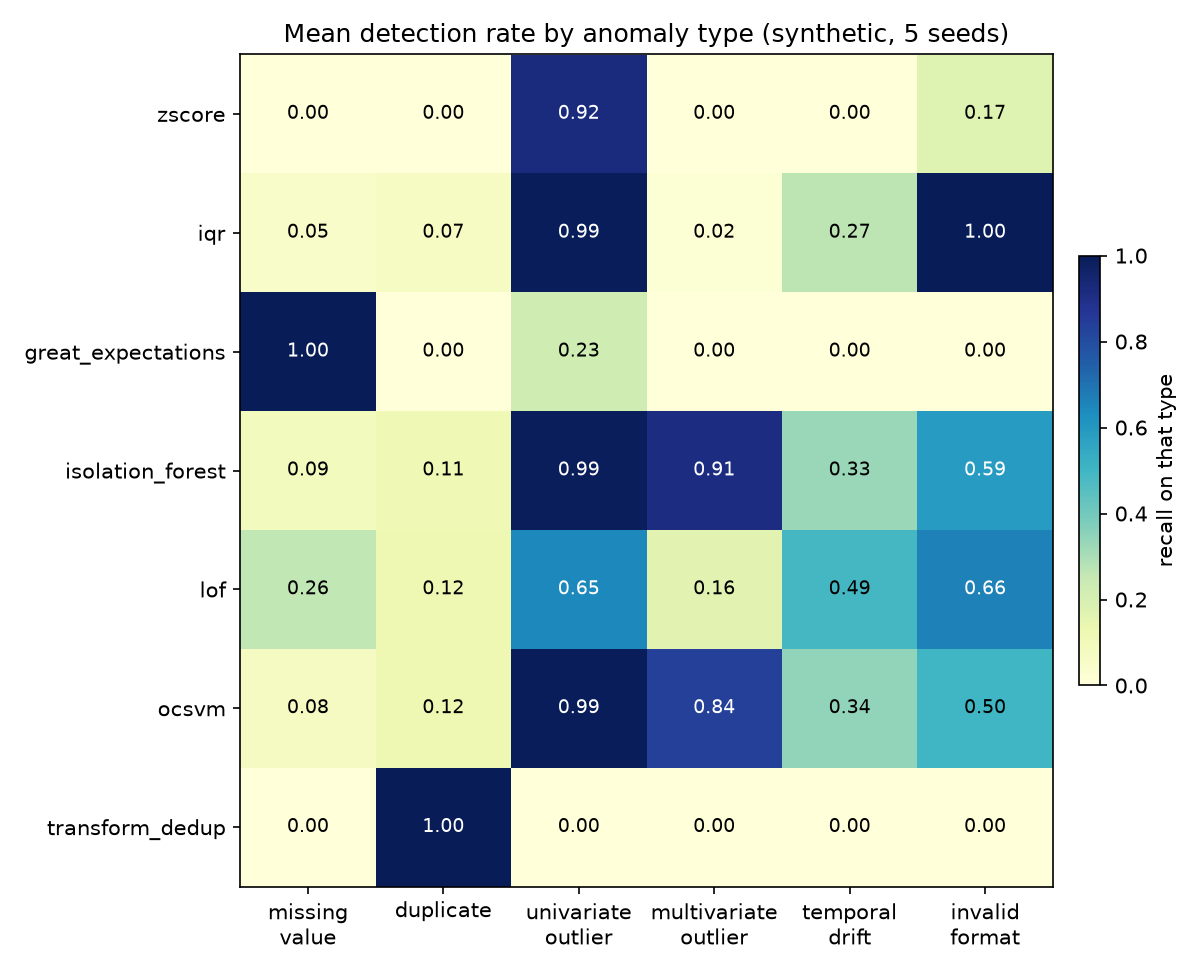
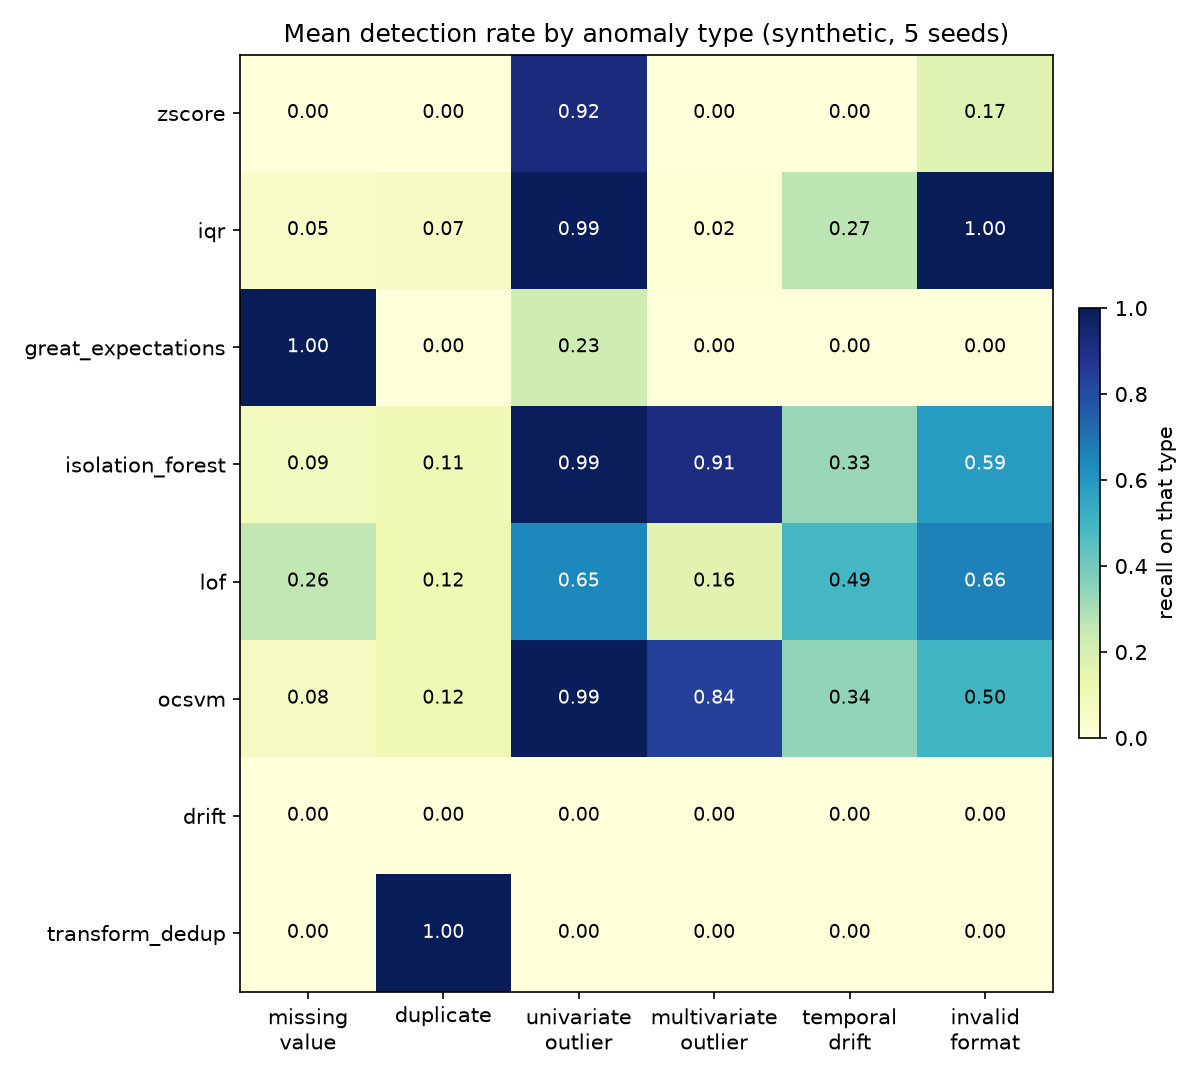
feat(quality): add a time-aware temporal-drift detector

diff --git a/src/etl_benchmark/quality/drift.py b/src/etl_benchmark/quality/drift.py
@@ -1,0 +1,118 @@
+"""A time-aware detector for distributional drift.
+
+The other detectors ignore the order of the rows. This one uses a
+timestamp column. In :meth:`fit` it learns a per-feature baseline from the
+oldest ``reference_frac`` of the rows. In :meth:`score` it measures how
+far the *recent* window's mean has moved from that baseline, on the
+features that actually moved (the window drift ``w``), and, for each
+recent row, how strongly the row leans in the same direction. A row
+scores high only when the window has drifted *and* the row contributes to
+that drift; a row that a single feature makes a gross outlier is
+excluded, so this detector stays out of the univariate detectors' lane.
+
+Injected drift is subtle on purpose: the shifted values stay inside the
+global range, and after dilution by the many clean recent rows the window
+shift is only about a tenth of a standard deviation. At that magnitude
+this detector, like every other, recovers almost none of it, which is the
+point: drift is a windowed-monitoring problem, not a per-row one. The
+severity sweep shows its recall climbing once the injected shift is a few
+times larger.
+
+On a dataset without the timestamp column the detector fits to a silent
+no-op, so it can sit in a shared detector list without special-casing.
+"""
+
+from __future__ import annotations
+
+from typing import Self
+
+import numpy as np
+import pandas as pd
+
+from etl_benchmark.quality.base import Detector
+
+
+class TemporalDriftDetector(Detector):
+    name = "drift"
+
+    def __init__(
+        self,
+        time_column: str = "signup_date",
+        columns: list[str] | None = None,
+        reference_frac: float = 0.6,
+        threshold: float = 0.35,
+        outlier_z: float = 5.0,
+    ) -> None:
+        self.time_column = time_column
+        self._user_columns = columns
+        self.reference_frac = reference_frac
+        self.threshold = threshold
+        self.outlier_z = outlier_z
+        self._fitted = False
+        self._active = False
+        self._cutoff: object | None = None
+        self._means: pd.Series | None = None
+        self._stds: pd.Series | None = None
+
+    def fit(self, df: pd.DataFrame) -> Self:
+        self._fitted = True
+        if self.time_column not in df.columns:
+            self._active = False
+            return self
+
+        self._active = True
+        order = df[self.time_column].sort_values()
+        cut = min(max(int(len(order) * self.reference_frac), 1), len(order) - 1)
+        self._cutoff = order.iloc[cut]
+        reference = df.loc[order.index[:cut]]
+
+        cols = self._user_columns or reference.select_dtypes(include=np.number).columns.tolist()
+        self._means = reference[cols].mean()
+        self._stds = reference[cols].std().replace(0, np.nan)
+        return self
+
+    def _guard(self) -> None:
+        if not self._fitted:
+            raise RuntimeError(f"{self.name} detector not fitted. Call fit() first.")
+
+    def _z(self, df: pd.DataFrame) -> pd.DataFrame:
+        cols = self._means.index
+        return (df[cols] - self._means) / self._stds
+
+    def _is_recent(self, df: pd.DataFrame) -> pd.Series:
+        return df[self.time_column] >= self._cutoff
+
+    def _row_score(self, df: pd.DataFrame) -> pd.Series:
+        z = self._z(df)
+        recent = self._is_recent(df)
+
+        window = z.loc[recent]
+        if len(window) < 20:
+            return pd.Series(0.0, index=df.index)
+
+        shift = window.mean()  # per-feature mean shift of the recent window, in ref-std units
+        moved = shift.abs() > 0.03  # features that actually drifted
+        if not moved.any():
+            return pd.Series(0.0, index=df.index)
+        w = float(shift[moved].abs().max())
+        direction = np.sign(shift[moved])
+
+        # how strongly each row leans in the drift direction, on the drifted features only
+        lean = (z.loc[:, moved.index[moved]] * direction).clip(0.0, 4.0).mean(axis=1)
+        gross = z.abs().max(axis=1) > self.outlier_z  # leave single-feature outliers to others
+        row = w * lean
+        row[gross] = 0.0
+        # keep a faint signal on non-recent rows so the ranking is still ordered
+        return (row * np.where(recent, 1.0, 0.2)).fillna(0.0)
+
+    def predict(self, df: pd.DataFrame) -> pd.Series:
+        self._guard()
+        if not self._active:
+            return pd.Series(False, index=df.index)
+        return (self._row_score(df) > self.threshold) & self._is_recent(df)
+
+    def score(self, df: pd.DataFrame) -> pd.Series:
+        self._guard()
+        if not self._active:
+            return pd.Series(0.0, index=df.index)
+        return self._row_score(df)

diff --git a/tests/test_drift.py b/tests/test_drift.py
@@ -1,0 +1,58 @@
+import numpy as np
+import pandas as pd
+import pytest
+
+from etl_benchmark.quality.drift import TemporalDriftDetector
+
+
+def _timeline(n: int = 600, seed: int = 0) -> pd.DataFrame:
+    rng = np.random.default_rng(seed)
+    days = np.sort(rng.integers(0, 1000, size=n))
+    start = pd.Timestamp("2024-01-01")
+    dates = [(start + pd.Timedelta(days=int(d))).strftime("%Y-%m-%d") for d in days]
+    value = rng.normal(100.0, 8.0, size=n)
+    return pd.DataFrame({"ts": dates, "value": value, "other": rng.normal(0, 1, size=n)})
+
+
+def test_flags_recent_rows_whose_distribution_shifted():
+    df = _timeline()
+    # a clear, several-sigma upward drift on the most recent 20% of rows
+    recent = df.index[int(len(df) * 0.80) :]
+    df.loc[recent, "value"] += 24.0
+    df.loc[recent, "other"] += 3.0
+
+    det = TemporalDriftDetector(time_column="ts", reference_frac=0.6).fit(df)
+    flags = det.predict(df)
+
+    assert flags.loc[recent].mean() > 0.5  # most drift rows caught
+    assert flags.loc[df.index[:350]].mean() < 0.05  # old rows untouched
+
+
+def test_recent_but_normal_rows_are_not_flagged():
+    df = _timeline()
+    det = TemporalDriftDetector(time_column="ts", reference_frac=0.6).fit(df)
+
+    assert det.predict(df).mean() < 0.05  # no injected drift, almost nothing flagged
+
+
+def test_no_time_column_is_a_silent_no_op():
+    df = _timeline().drop(columns="ts")
+    det = TemporalDriftDetector(time_column="ts").fit(df)
+
+    assert not det.predict(df).any()
+    assert (det.score(df) == 0.0).all()
+
+
+def test_predict_before_fit_raises():
+    with pytest.raises(RuntimeError):
+        TemporalDriftDetector().predict(_timeline())
+
+
+def test_score_is_index_aligned_and_continuous():
+    df = _timeline()
+    df.index = df.index + 500
+    det = TemporalDriftDetector(time_column="ts").fit(df)
+    scores = det.score(df)
+
+    assert scores.index.equals(df.index)
+    assert scores.min() >= 0.0

diff --git a/src/etl_benchmark/registry.py b/src/etl_benchmark/registry.py
@@ -22,10 +22,11 @@ from etl_benchmark.quality import (
     IsolationForestDetector,
     LOFDetector,
     OneClassSVMDetector,
+    TemporalDriftDetector,
     ZScoreDetector,
 )
 
-# Each factory takes the ML contamination to use (rule-based detectors ignore it).
+# Each factory takes the ML contamination to use (other detectors ignore it).
 _FACTORIES: dict[str, Callable[[float], Detector]] = {
     "zscore": lambda c: ZScoreDetector(threshold=config.ZSCORE_THRESHOLD),
     "iqr": lambda c: IQRDetector(multiplier=config.IQR_MULTIPLIER),
@@ -33,11 +34,16 @@ _FACTORIES: dict[str, Callable[[float], Detector]] = {
     "isolation_forest": lambda c: IsolationForestDetector(contamination=c),
     "lof": lambda c: LOFDetector(contamination=c),
     "ocsvm": lambda c: OneClassSVMDetector(contamination=c),
+    "drift": lambda c: TemporalDriftDetector(),
 }
 
-DETECTOR_NAMES: list[str] = list(_FACTORIES)
 RULE_NAMES: list[str] = ["zscore", "iqr", "great_expectations"]
 ML_NAMES: list[str] = ["isolation_forest", "lof", "ocsvm"]
+# The core comparison set. ``drift`` needs a timestamp column, so it is opt-in
+# (the synthetic benchmark adds it) rather than part of the default sweep.
+DETECTOR_NAMES: list[str] = [*RULE_NAMES, *ML_NAMES]
+DRIFT_NAME: str = "drift"
+ALL_NAMES: list[str] = [*DETECTOR_NAMES, DRIFT_NAME]
 
 
 def clip_contamination(prevalence: float | None) -> float:

diff --git a/experiments/run_synthetic_benchmark.py b/experiments/run_synthetic_benchmark.py
@@ -47,7 +47,7 @@ from sklearn.metrics import (  # noqa: E402
 from etl_benchmark import config  # noqa: E402
 from etl_benchmark.logging_setup import setup_logging  # noqa: E402
 from etl_benchmark.pipeline import detect  # noqa: E402
-from etl_benchmark.registry import all_detectors  # noqa: E402
+from etl_benchmark.registry import ALL_NAMES, all_detectors  # noqa: E402
 from etl_benchmark.split import stratified_split  # noqa: E402
 from etl_benchmark.synthetic import ANOMALY_TYPES, FEATURE_COLUMNS, make_synthetic  # noqa: E402
 
@@ -100,7 +100,7 @@ def evaluate(df: pd.DataFrame, seed: int) -> dict[str, pd.DataFrame]:
     type_test = test["anomaly_type"]
 
     metrics, recall, precision = [], [], []
-    detectors = all_detectors(ml_contamination=contamination)
+    detectors = all_detectors(ml_contamination=contamination, names=ALL_NAMES)
     for det in detectors + ["transform_dedup"]:
         if det == "transform_dedup":
             name, flags, scores = "transform_dedup", _dedup_flags_for(test), _dedup_flags_for(test)

diff --git a/tests/test_registry.py b/tests/test_registry.py
@@ -3,6 +3,7 @@ import pytest
 from etl_benchmark import config
 from etl_benchmark.quality import Detector
 from etl_benchmark.registry import (
+    ALL_NAMES,
     DETECTOR_NAMES,
     ML_NAMES,
     RULE_NAMES,
@@ -27,6 +28,13 @@ def test_get_detector_unknown_raises():
 def test_all_detectors_covers_registry():
     assert {d.name for d in all_detectors()} == set(DETECTOR_NAMES)
     assert set(RULE_NAMES) | set(ML_NAMES) == set(DETECTOR_NAMES)
+
+
+def test_drift_is_opt_in_not_in_the_default_sweep():
+    assert "drift" not in DETECTOR_NAMES
+    assert ALL_NAMES[-1] == "drift"
+    assert ALL_NAMES[:-1] == DETECTOR_NAMES
+    assert get_detector("drift").name == "drift"
 
 
 def test_all_detectors_can_select_a_subset():

diff --git a/src/etl_benchmark/__main__.py b/src/etl_benchmark/__main__.py
@@ -14,14 +14,14 @@ from pathlib import Path
 from etl_benchmark import config
 from etl_benchmark.logging_setup import setup_logging
 from etl_benchmark.pipeline import run_pipeline
-from etl_benchmark.registry import DETECTOR_NAMES, get_detector
+from etl_benchmark.registry import ALL_NAMES, get_detector
 
 
 def main() -> None:
     parser = argparse.ArgumentParser(description=__doc__)
     parser.add_argument(
         "--detector",
-        choices=DETECTOR_NAMES,
+        choices=ALL_NAMES,
         default="zscore",
         help="which detector to run (default: zscore)",
     )

diff --git a/src/etl_benchmark/quality/__init__.py b/src/etl_benchmark/quality/__init__.py
@@ -1,4 +1,5 @@
 from etl_benchmark.quality.base import Detector
+from etl_benchmark.quality.drift import TemporalDriftDetector
 from etl_benchmark.quality.gx import GreatExpectationsDetector
 from etl_benchmark.quality.ml import (
     IsolationForestDetector,
@@ -15,4 +16,5 @@ __all__ = [
     "IsolationForestDetector",
     "LOFDetector",
     "OneClassSVMDetector",
+    "TemporalDriftDetector",
 ]
